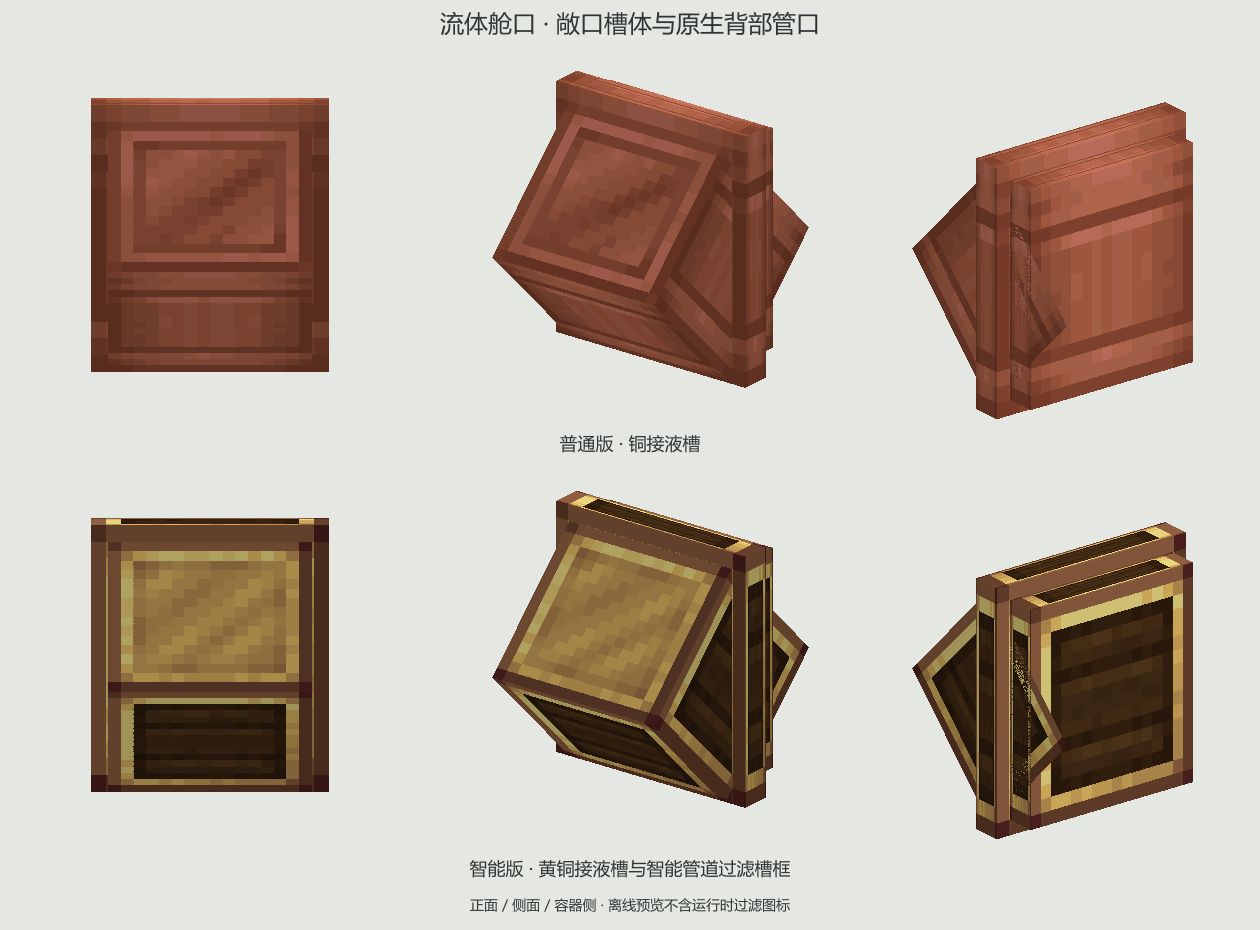
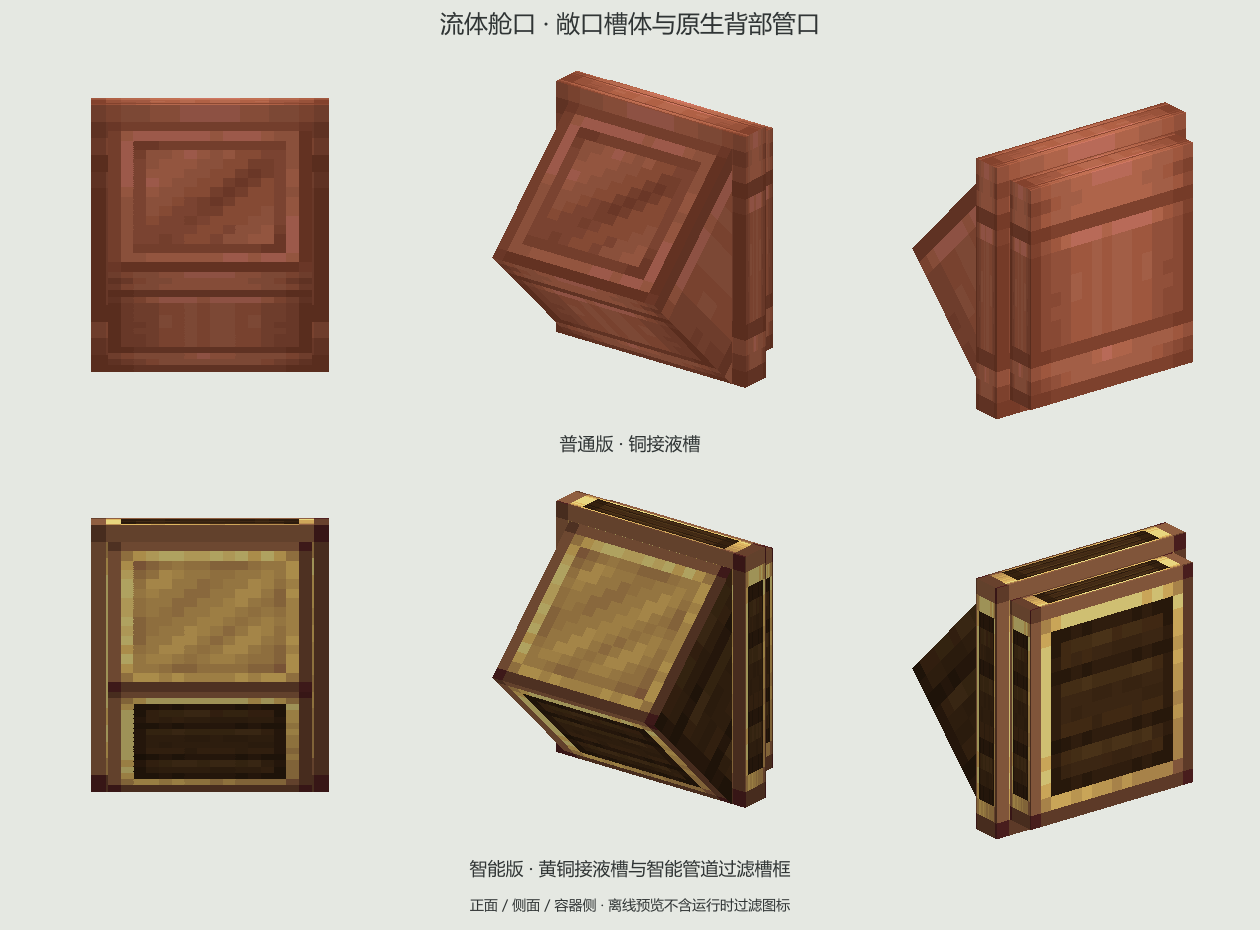
Clip hatch side textures to native triangular silhouette

diff --git a/tools/reference-native-hatch-materials.py b/tools/reference-native-hatch-materials.py
@@ -1,17 +1,38 @@
 """Keep native hatch geometry; adapt UVs to directly referenced 16px materials."""
 import json
+import copy
+import io
 from pathlib import Path
 from zipfile import ZipFile
+from PIL import Image
 
 root=Path(__file__).resolve().parents[1]
 jar=next((Path.home()/'.gradle/caches/modules-2/files-2.1/com.simibubi.create/create-1.21.1/6.0.10-280').rglob('*-slim.jar'))
 with ZipFile(jar) as archive:
     geometry=json.loads(archive.read('assets/create/models/block/item_hatch/block_closed.json'))['elements']
+    original=copy.deepcopy(geometry)
+    mask=Image.open(io.BytesIO(archive.read('assets/create/textures/block/hatch.png'))).convert('RGBA')
+    materials={name:Image.open(io.BytesIO(archive.read('assets/create/textures/block/'+name+'.png'))).convert('RGBA')
+               for name in ('fluid_tank','brass_casing')}
 for element in geometry:
     for face in element['faces'].values():
         face['uv']=[0,0,16,16]
         face.pop('rotation',None)
 for name,body,lid in [('fluid_hatch','fluid_tank','copper_underside'),('smart_fluid_hatch','brass_casing','brass_block')]:
+    elements=copy.deepcopy(geometry)
+    # Restore the native triangular transparency and its precise rotated UVs on
+    # the inclined part's two side faces only. All other material references stay.
+    clipped=Image.new('RGBA',mask.size)
+    for y in range(mask.height):
+        for x in range(mask.width):
+            color=materials[body].getpixel((x%16,y%16))
+            clipped.putpixel((x,y),color[:3]+(mask.getpixel((x,y))[3],))
+    destination=root/f'src/main/resources/assets/ccd/textures/block/{name}/side_clipped.png'
+    clipped.save(destination)
+    for side in ('east','west'):
+        elements[2]['faces'][side]=copy.deepcopy(original[2]['faces'][side])
+        elements[2]['faces'][side]['texture']='#side'
     model={'parent':'create:block/item_hatch/block_closed','textures':{
-        '0':'create:block/'+body,'1':'create:block/'+lid,'particle':'create:block/'+body},'elements':geometry}
+        '0':'create:block/'+body,'1':'create:block/'+lid,'side':f'ccd:block/{name}/side_clipped',
+        'particle':'create:block/'+body},'render_type':'minecraft:cutout_mipped','elements':elements}
     (root/f'src/main/resources/assets/ccd/models/block/{name}_closed.json').write_text(json.dumps(model,indent=2)+'\n',encoding='utf-8')

diff --git a/docs/tank-style-hatches.md b/docs/tank-style-hatches.md
@@ -1,5 +1,7 @@
 # 舱口原生材质试稿
 
+最新修正：保留第一版几何，斜盖两侧恢复原生三角透明遮罩和对应 UV 旋转，仅裁掉后方露出的部分。两张 `side_clipped.png` 使用原版铜／黄铜像素与 Create 舱口透明通道派生；其余表面仍引用原版材质，不添加敞口、背部管口或槽框。
+
 当前版本：按用户要求恢复 `fb3ef23` 的第一版，使用原版舱口轮廓和完整 16×16 原生材质 UV。敞口槽体、后部管口和额外过滤槽框均不再用于当前模型，选中与碰撞形状恢复 Create 原版。以下敞口修订为历史记录。
 
 ## 敞口槽体修订
